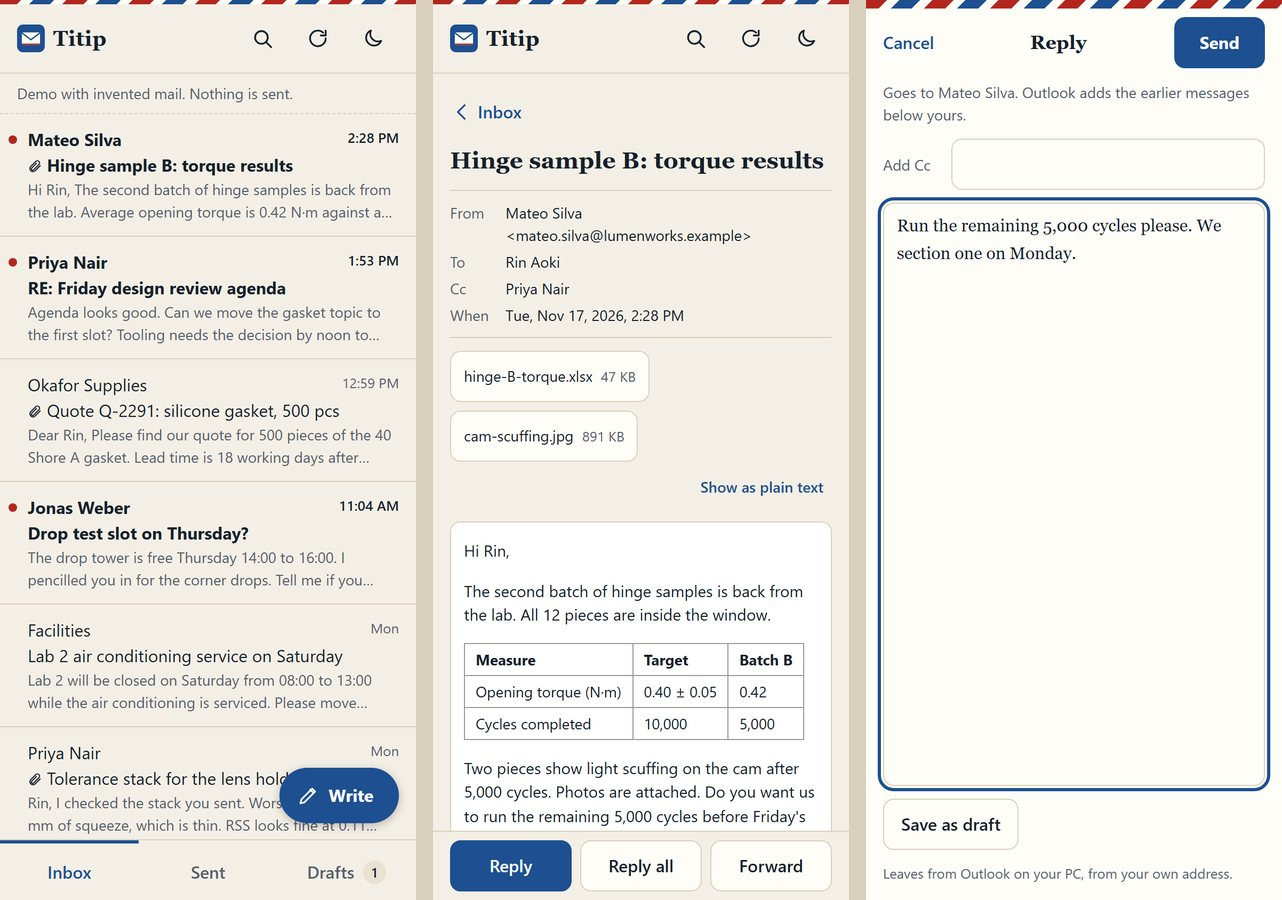
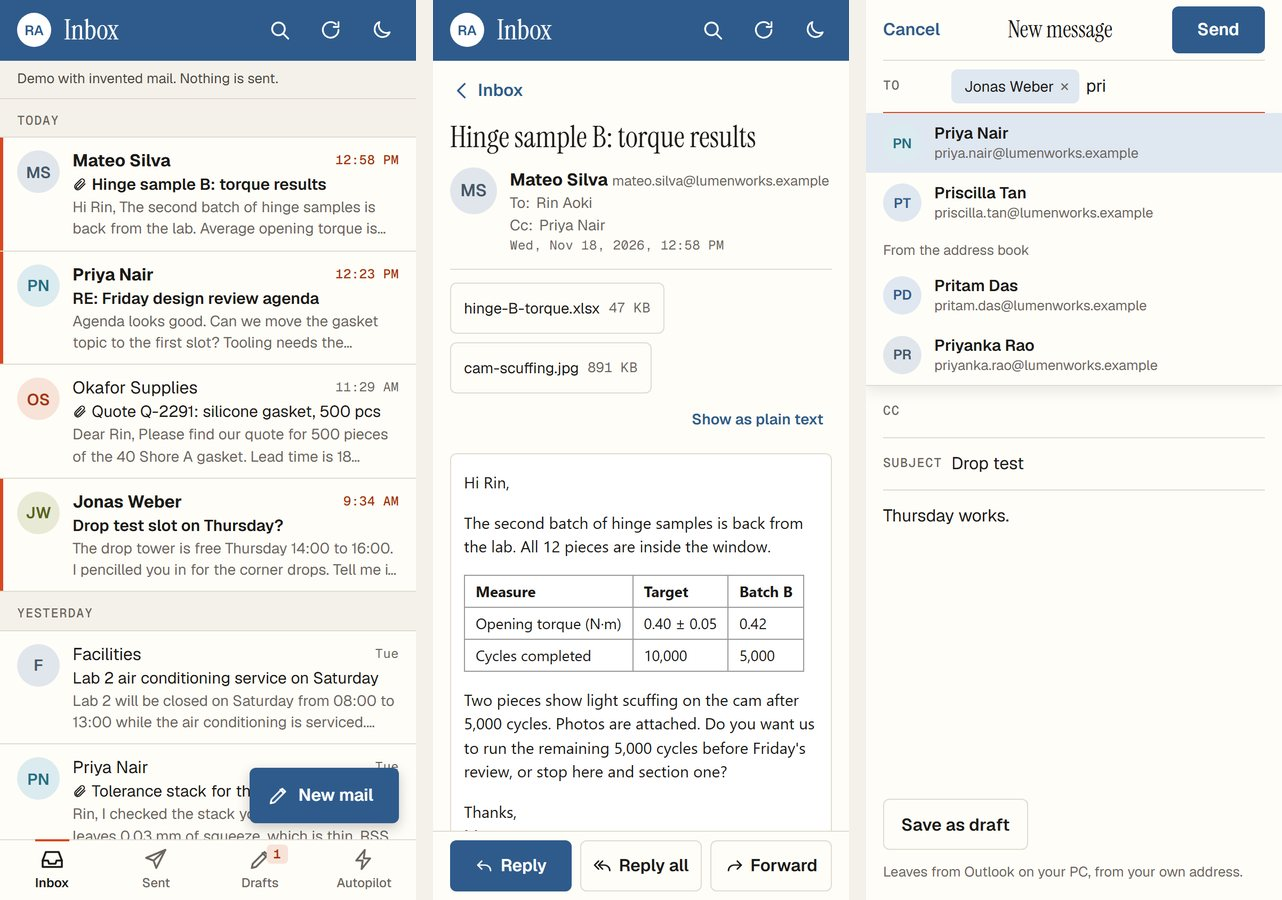
Titip: Outlook's layout in Cairn's hand, names as you type, says why it cannot reach the PC, 215 tests

Changed region(s): [[0.0, 0.0, 1.0, 1.0]]

diff --git a/p/titip/index.html b/p/titip/index.html
@@ -605,13 +605,13 @@ html.dna.dna.dna { --fd: "Brygada 1918", var(--fd-fallback); --fdw: 700; --fd-fa
       <div class="bar"><i></i><i></i><i></i><span>titip · invented mail</span><em>live demo</em></div>
       <img src="shot.jpg" alt="Titip screenshot" width="1280" height="800" fetchpriority="high">
     </figure>
-    <div class="stats reveal" style="--n:4"><div class="stat"><b>2</b><span>platforms: Windows, Python</span></div><div class="stat"><b>170</b><span>unit and server tests, no Outlook needed</span></div><div class="stat"><b>5 s</b><span>to undo every send</span></div><div class="stat"><b>8</b><span>automatic answers a day at most</span></div></div>
+    <div class="stats reveal" style="--n:4"><div class="stat"><b>2</b><span>platforms: Windows, Python</span></div><div class="stat"><b>215</b><span>unit and server tests, no Outlook needed</span></div><div class="stat"><b>3 s</b><span>to undo every send</span></div><div class="stat"><b>8</b><span>automatic answers a day at most</span></div></div>
   </section>
 
   <section class="block wrap why reveal" id="why">
     <div class="why-grid">
       <div><div class="kicker">Why it exists</div><h2>Leave it with your PC. Outlook passes it on.</h2></div>
-      <div><p class="lead">Titip is Indonesian for leaving something with someone to pass on.</p><p class="lead-2">It stores no password and no mail.</p></div>
+      <div><p class="lead">Titip is Indonesian for leaving something with someone to pass on.</p><p class="lead-2">It stores no password, and on the PC it writes no mail to disk.</p></div>
     </div>
   </section>
   <section class="block alt wrap reveal" id="how">
@@ -622,7 +622,7 @@ html.dna.dna.dna { --fd: "Brygada 1918", var(--fd-fallback); --fdw: 700; --fd-fa
   <section class="block wrap reveal" id="features">
     <div class="kicker">What's inside</div>
     <h2>What the phone can do.</h2>
-    <div class="bento"><article class="cell wide dark"><h3>Inbox, Sent and Drafts</h3><p>Shows mail from the classic Outlook desktop app, newest first, including mail that rules or archivers moved into .pst data files. Unread mail carries a red dot.</p></article><article class="cell"><h3>Read it as it was written</h3><p>Opens a message with its formatting in a frame that cannot run scripts or load remote pictures, or as plain text. Attachments download to the phone.</p></article><article class="cell"><h3>Reply, Reply all, Forward, new mail</h3><p>Outlook adds the earlier thread. There is no automatic signature: type it, or keep it in a draft.</p></article><article class="cell accent"><h3>Five seconds to undo</h3><p>Every send waits 5 seconds behind an Undo button. Save as draft puts it in Outlook&#x27;s Drafts. If a send fails, the message comes back with your text and the reason.</p></article><article class="cell"><h3>Search, light and dark</h3><p>Search by subject or person. Light and dark. Works as a home-screen app.</p></article><article class="cell"><h3>Patient with a busy PC</h3><p>While Outlook is busy with something else, the phone says so and keeps asking for up to a minute. Only reading is asked again. A send is never repeated.</p></article><article class="cell"><h3>Autopilot for Gmail</h3><p>Off until you switch it on. Every 10 minutes it looks at new mail in the Primary tab of the Gmail that Chrome is signed in to. It sends only a short answer that promises nothing, keeps anything about money, a contract, a code or personal papers for you with a draft, and leaves newsletters and receipts alone.</p></article><article class="cell"><h3>Autopilot from any network</h3><p>The Autopilot page can be opened from mobile data through a small relay you run yourself. The PC and the phone encrypt for each other with a key that only travels inside the QR code. The relay holds ciphertext it cannot read.</p></article><article class="cell"><h3>Mail from anywhere</h3><p>With the relay in place, your Outlook mail can pass through it too: inbox, sent, drafts, reading, attachments, writing, replying. It is off until you press Switch on at the PC. The phone seals each question and the PC seals the answer; the relay passes both on and cannot read either. A send is carried out once.</p></article><article class="cell"><h3>Updates itself</h3><p>A copy installed with git clone looks at the published version every 15 minutes. When there is a newer one it checks that it starts on this PC, moves to it, waits until nothing is in progress and starts again. If the new version does not come up, Titip goes back to the one before.</p></article></div>
+    <div class="bento"><article class="cell wide dark"><h3>Inbox, Sent and Drafts</h3><p>Shows mail from the classic Outlook desktop app, newest first, including mail that rules or archivers moved into .pst data files. It is laid out the way Outlook&#x27;s phone app is: a round initial for each sender, mail grouped under Today and Yesterday, unread mail in bold with a coloured edge. Search by subject or person. Light and dark. Works as a home-screen app.</p></article><article class="cell"><h3>Read it as it was written</h3><p>Opens a message with its formatting in a frame that cannot run scripts or load remote pictures, or as plain text. Attachments download to the phone.</p></article><article class="cell"><h3>Reply, Reply all, Forward, new mail</h3><p>Outlook adds the earlier thread. There is no automatic signature: type it, or keep it in a draft.</p></article><article class="cell accent"><h3>Names as you type</h3><p>Type a few letters in To or Cc and Titip suggests the people of your own mail, name and address, and under them people from Outlook&#x27;s address book. Each person becomes a label with the name on it, the way Outlook shows them.</p></article><article class="cell"><h3>Three seconds to undo</h3><p>Every send waits 3 seconds behind an Undo button. Save as draft puts it in Outlook&#x27;s Drafts. If a send fails, the message comes back with your text and the reason.</p></article><article class="cell"><h3>Says what stands in the way</h3><p>While Outlook is busy, the phone says so and keeps asking for up to a minute. A send is never repeated. When the PC cannot be reached, the phone finds out why and says it over the list it kept: the phone is offline, the network blocks the relay, the code is old, or the PC is off. It keeps trying by itself.</p></article><article class="cell"><h3>Autopilot for Gmail</h3><p>Off until you switch it on. Every 10 minutes it looks at new mail in the Primary tab of the Gmail that Chrome is signed in to. It sends only a short answer that promises nothing, keeps anything about money, a contract, a code or personal papers for you with a draft, and leaves newsletters and receipts alone.</p></article><article class="cell"><h3>Autopilot from any network</h3><p>The Autopilot page can be opened from mobile data through a small relay you run yourself. The PC and the phone encrypt for each other with a key that only travels inside the QR code. The relay holds ciphertext it cannot read.</p></article><article class="cell"><h3>Mail from anywhere</h3><p>With the relay in place, your Outlook mail can pass through it too: inbox, sent, drafts, reading, attachments, writing, replying. It is off until you press Switch on at the PC. The phone seals each question and the PC seals the answer; the relay passes both on and cannot read either. A send is carried out once.</p></article><article class="cell"><h3>Updates itself</h3><p>A copy installed with git clone looks at the published version every 15 minutes. When there is a newer one it checks that it starts on this PC, moves to it, waits until nothing is in progress and starts again. If the new version does not come up, Titip goes back to the one before.</p></article></div>
   </section>
   <section class="block alt wrap reveal" id="today">
     <div class="kicker">Working today</div>
@@ -632,7 +632,7 @@ html.dna.dna.dna { --fd: "Brygada 1918", var(--fd-fallback); --fdw: 700; --fd-fa
   <section class="block wrap reveal" id="gallery">
     <div class="kicker">Screens</div>
     <h2>See more of it.</h2>
-    <div class="gallery g1" style="grid-template-columns:minmax(0,820px)"><a class="shot" href="g1.jpg"><img src="g1.jpg" alt="Titip on a phone: inbox, a message with a table, and the reply screen" loading="lazy" width="1282" height="900"><span>Titip on a phone: inbox, a message with a table, and the reply screen</span></a></div>
+    <div class="gallery g1" style="grid-template-columns:minmax(0,820px)"><a class="shot" href="g1.jpg"><img src="g1.jpg" alt="Titip on a phone: the inbox, a message with a table, and a new mail with names suggested under To" loading="lazy" width="1282" height="900"><span>Titip on a phone: the inbox, a message with a table, and a new mail with names suggested under To</span></a></div>
   </section>
   <section class="block alt wrap reveal" id="run">
     <div class="quick">
@@ -672,9 +672,9 @@ python -m titip"><svg viewBox="0 0 24 24" aria-hidden="true"><rect x="8" y="8" w
     <div class="kicker">Under the hood</div>
     <h2>How it's built.</h2>
     <div class="hood"><div class="hood-card">
-        <h3>Built with</h3><div class="sg"><span>Language</span><div class="chips"><b class=chip>Python</b><b class=chip>JavaScript</b><b class=chip>HTML/CSS</b><b class=chip>PowerShell</b></div></div><div class="sg"><span>Platform</span><div class="chips"><b class=chip>PWA</b></div></div><div class="sg"><span>Hosting</span><div class="chips"><b class=chip>Cloudflare Workers</b></div></div><div class="sg"><span>Windows</span><div class="chips"><b class=chip>pywin32</b></div></div><div class="sg"><span>System</span><div class="chips"><b class=chip>psutil</b></div></div><div class="sg"><span>Testing</span><div class="chips"><b class=chip>Automated tests</b></div></div><p class="repo-line">59 files in the repo · last updated 17 Nov 2026.</p>
+        <h3>Built with</h3><div class="sg"><span>Language</span><div class="chips"><b class=chip>Python</b><b class=chip>JavaScript</b><b class=chip>HTML/CSS</b><b class=chip>PowerShell</b></div></div><div class="sg"><span>Platform</span><div class="chips"><b class=chip>PWA</b></div></div><div class="sg"><span>Hosting</span><div class="chips"><b class=chip>Cloudflare Workers</b></div></div><div class="sg"><span>Windows</span><div class="chips"><b class=chip>pywin32</b></div></div><div class="sg"><span>System</span><div class="chips"><b class=chip>psutil</b></div></div><div class="sg"><span>Testing</span><div class="chips"><b class=chip>Automated tests</b></div></div><p class="repo-line">75 files in the repo · 16 commits since Nov 2026 · last updated 18 Nov 2026.</p>
         <a class="go" href="https://github.com/juw12/titip">Browse the code <svg viewBox="0 0 24 24" aria-hidden="true"><path d="M5 12h13M13 6l6 6-6 6" fill="none" stroke="currentColor" stroke-width="2.2" stroke-linecap="round" stroke-linejoin="round"/></svg></a>
-      </div><div class="hood-card"><h3>Recently shipped</h3><ol class="log"><li><time datetime="2026-11-17">17 Nov 2026</time><p>Autopilot for Gmail, visible and steerable from any network (#1)</p></li><li><time datetime="2026-11-17">17 Nov 2026</time><p>Keep asking while Outlook is busy, stay at normal priority, show the subject while a message opens</p></li><li><time datetime="2026-11-17">17 Nov 2026</time><p>Unread marks from Outlook, clear send states, notices above Write, desktop reply bar</p></li><li><time datetime="2026-11-17">17 Nov 2026</time><p>Outlook inbox, reply and compose from a paired phone</p></li></ol><a class="go" href="https://github.com/juw12/titip/commits/main">Full history on GitHub <svg viewBox="0 0 24 24" aria-hidden="true"><path d="M5 12h13M13 6l6 6-6 6" fill="none" stroke="currentColor" stroke-width="2.2" stroke-linecap="round" stroke-linejoin="round"/></svg></a></div></div>
+      </div><div class="hood-card"><h3>Recently shipped</h3><ol class="log"><li><time datetime="2026-11-18">18 Nov 2026</time><p>The phone says why it cannot reach the PC, and tries a dead connection again (0.7.1) (#11)</p></li><li><time datetime="2026-11-18">18 Nov 2026</time><p>Recipients as labels, Outlook&#x27;s address book under To and Cc, a faster first tap (0.7.0) (#10)</p></li><li><time datetime="2026-11-18">18 Nov 2026</time><p>Look like Outlook, suggest names in To and Cc, send faster, keep the last list on the phone (0.6.0) (#9)</p></li><li><time datetime="2026-11-17">17 Nov 2026</time><p>Carry the key in the address an iPhone Home Screen icon opens (0.5.1) (#8)</p></li><li><time datetime="2026-11-17">17 Nov 2026</time><p>Pair from any network: the main code on the PC page opens the mail app; read further ahead so messages open at once (0.5.0) (#7)</p></li></ol><a class="go" href="https://github.com/juw12/titip/commits/main">Full history on GitHub <svg viewBox="0 0 24 24" aria-hidden="true"><path d="M5 12h13M13 6l6 6-6 6" fill="none" stroke="currentColor" stroke-width="2.2" stroke-linecap="round" stroke-linejoin="round"/></svg></a></div></div>
   </section>
   <section class="block alt wrap reveal" id="faq">
     <div class="kicker">Questions</div>
